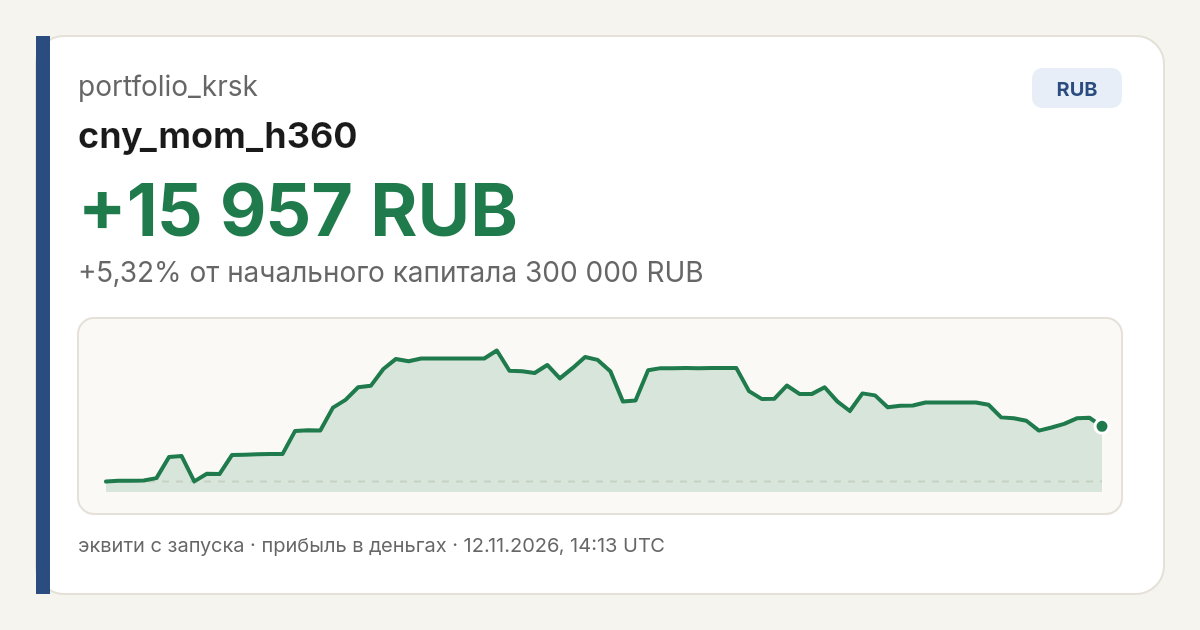
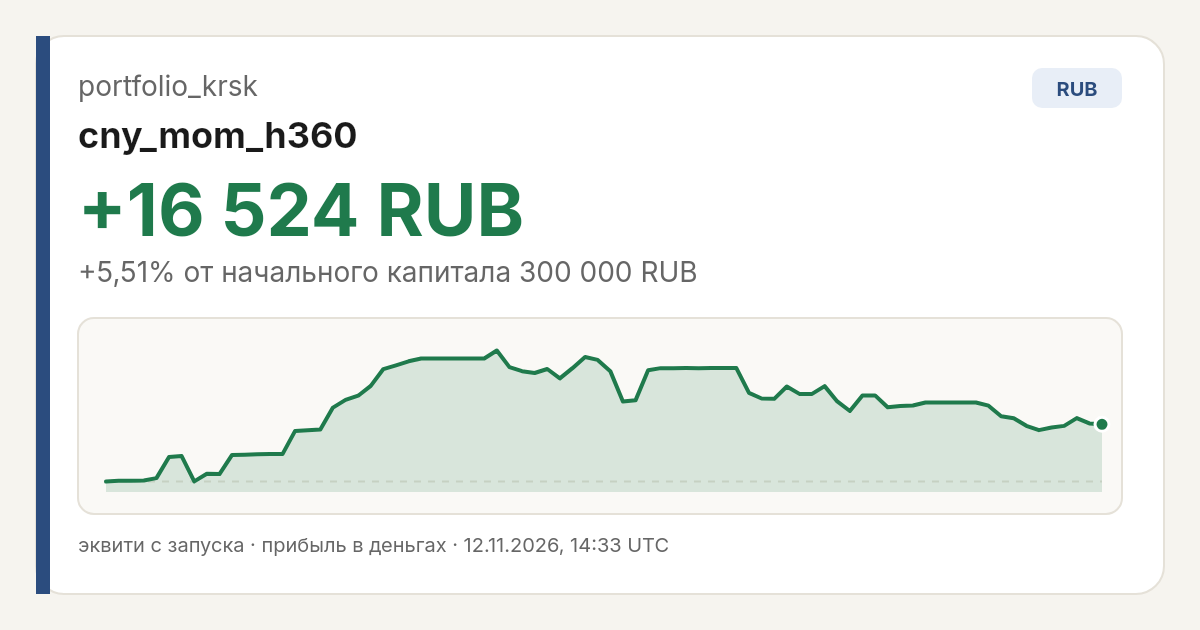
sync equity data 2026-11-12T14:33:31Z

diff --git a/share.html b/share.html
@@ -4,23 +4,23 @@
     <meta charset="UTF-8" />
     <meta name="viewport" content="width=device-width, initial-scale=1.0" />
     <title>portfolio_krsk - cny_mom_h360</title>
-    <meta name="description" content="cny_mom_h360: +15 957 RUB (+5,32%) с запуска. Лидер обложки выбран по доходности в процентах от начального капитала; суммы в разных валютах не сравниваются." />
+    <meta name="description" content="cny_mom_h360: +16 524 RUB (+5,51%) с запуска. Лидер обложки выбран по доходности в процентах от начального капитала; суммы в разных валютах не сравниваются." />
     <meta property="og:title" content="portfolio_krsk - cny_mom_h360" />
-    <meta property="og:description" content="cny_mom_h360: +15 957 RUB (+5,32%) с запуска. Лидер обложки выбран по доходности в процентах от начального капитала; суммы в разных валютах не сравниваются." />
+    <meta property="og:description" content="cny_mom_h360: +16 524 RUB (+5,51%) с запуска. Лидер обложки выбран по доходности в процентах от начального капитала; суммы в разных валютах не сравниваются." />
     <meta property="og:url" content="https://portfolio-krsk.vercel.app/" />
     <meta property="og:site_name" content="portfolio_krsk" />
     <meta property="og:locale" content="ru_RU" />
     <meta property="og:type" content="website" />
-    <meta property="og:image" content="https://varshavskiy1-beep.github.io/portfolio-krsk/og-cover.jpg?v=202611121413" />
-    <meta property="og:image:secure_url" content="https://varshavskiy1-beep.github.io/portfolio-krsk/og-cover.jpg?v=202611121413" />
+    <meta property="og:image" content="https://varshavskiy1-beep.github.io/portfolio-krsk/og-cover.jpg?v=202611121433" />
+    <meta property="og:image:secure_url" content="https://varshavskiy1-beep.github.io/portfolio-krsk/og-cover.jpg?v=202611121433" />
     <meta property="og:image:type" content="image/jpeg" />
     <meta property="og:image:width" content="1200" />
     <meta property="og:image:height" content="630" />
-    <link rel="image_src" href="https://varshavskiy1-beep.github.io/portfolio-krsk/og-cover.jpg?v=202611121413" />
+    <link rel="image_src" href="https://varshavskiy1-beep.github.io/portfolio-krsk/og-cover.jpg?v=202611121433" />
     <meta name="twitter:card" content="summary_large_image" />
     <meta name="twitter:title" content="portfolio_krsk - cny_mom_h360" />
-    <meta name="twitter:description" content="cny_mom_h360: +15 957 RUB (+5,32%) с запуска. Лидер обложки выбран по доходности в процентах от начального капитала; суммы в разных валютах не сравниваются." />
-    <meta name="twitter:image" content="https://varshavskiy1-beep.github.io/portfolio-krsk/og-cover.jpg?v=202611121413" />
+    <meta name="twitter:description" content="cny_mom_h360: +16 524 RUB (+5,51%) с запуска. Лидер обложки выбран по доходности в процентах от начального капитала; суммы в разных валютах не сравниваются." />
+    <meta name="twitter:image" content="https://varshavskiy1-beep.github.io/portfolio-krsk/og-cover.jpg?v=202611121433" />
     <meta http-equiv="refresh" content="0; url=/" />
     <script>location.replace("/")</script>
     <style>
@@ -49,9 +49,9 @@
   </head>
   <body>
     <main>
-      <img src="https://varshavskiy1-beep.github.io/portfolio-krsk/og-cover.jpg?v=202611121413" alt="portfolio_krsk - cny_mom_h360" width="1200" height="630" />
+      <img src="https://varshavskiy1-beep.github.io/portfolio-krsk/og-cover.jpg?v=202611121433" alt="portfolio_krsk - cny_mom_h360" width="1200" height="630" />
       <noscript>
-        <p>cny_mom_h360: +15 957 RUB (+5,32%) с запуска. Лидер обложки выбран по доходности в процентах от начального капитала; суммы в разных валютах не сравниваются.</p>
+        <p>cny_mom_h360: +16 524 RUB (+5,51%) с запуска. Лидер обложки выбран по доходности в процентах от начального капитала; суммы в разных валютах не сравниваются.</p>
         <p><a href="/">Открыть кабинет portfolio_krsk</a></p>
       </noscript>
     </main>
